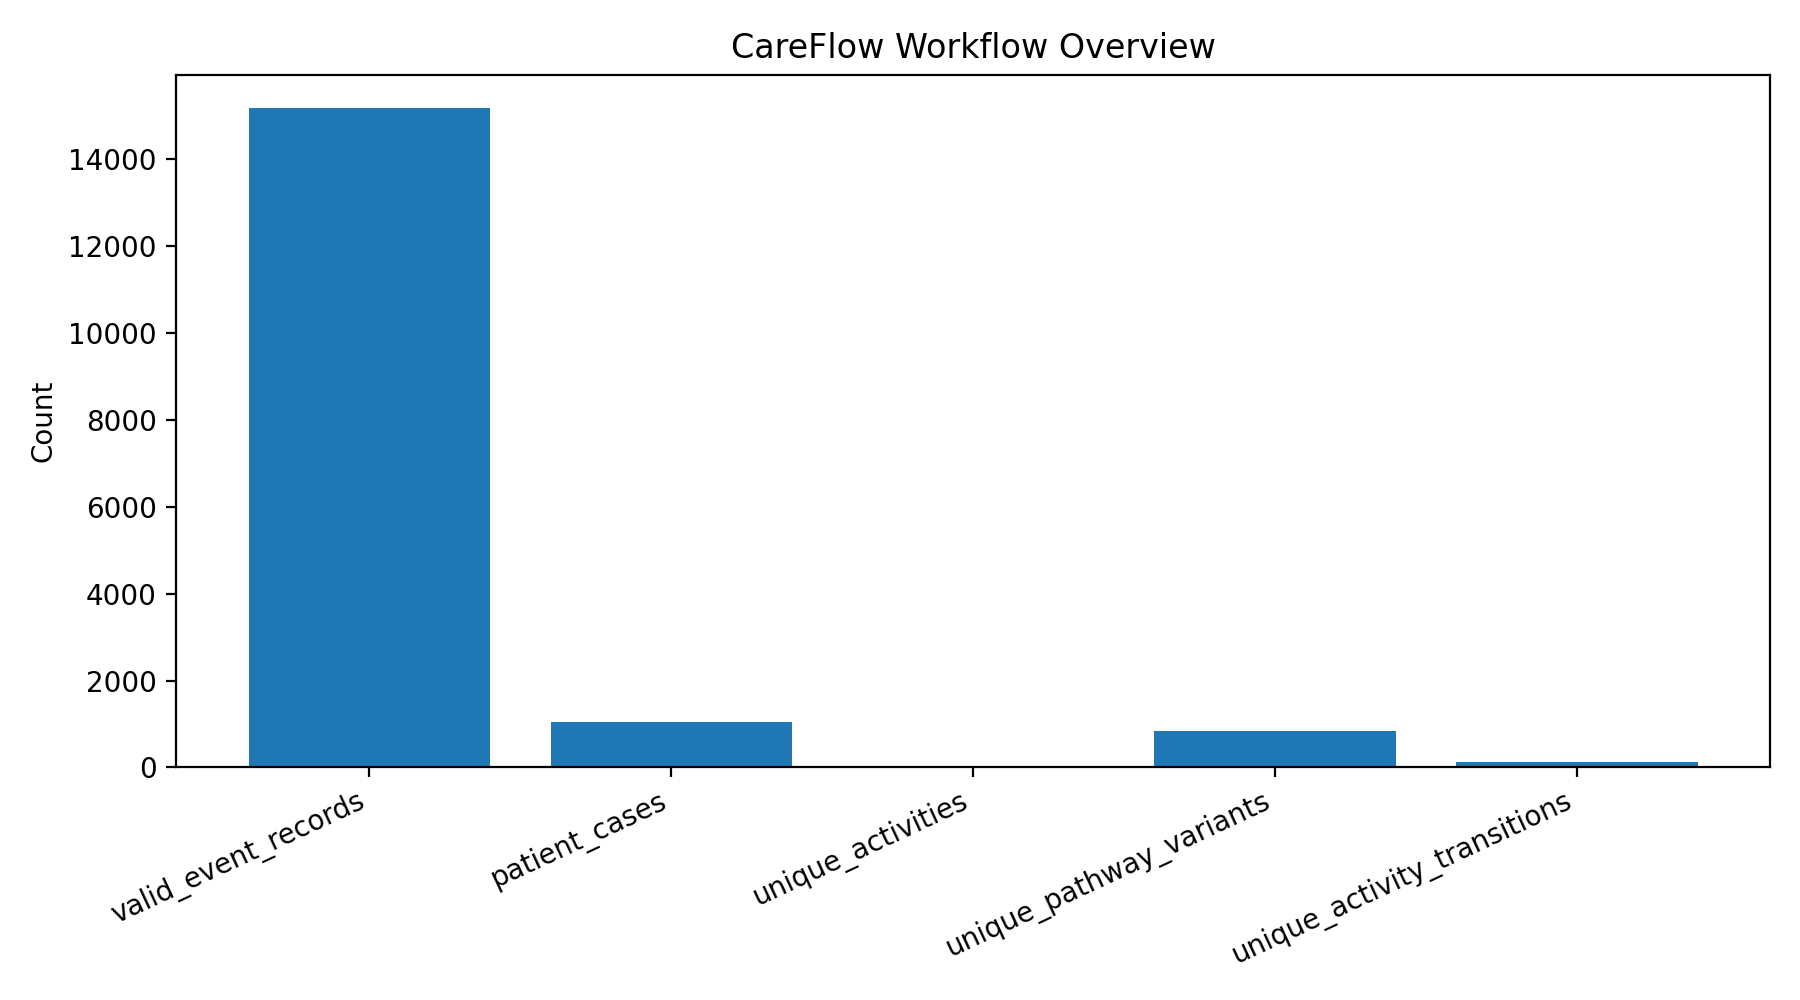
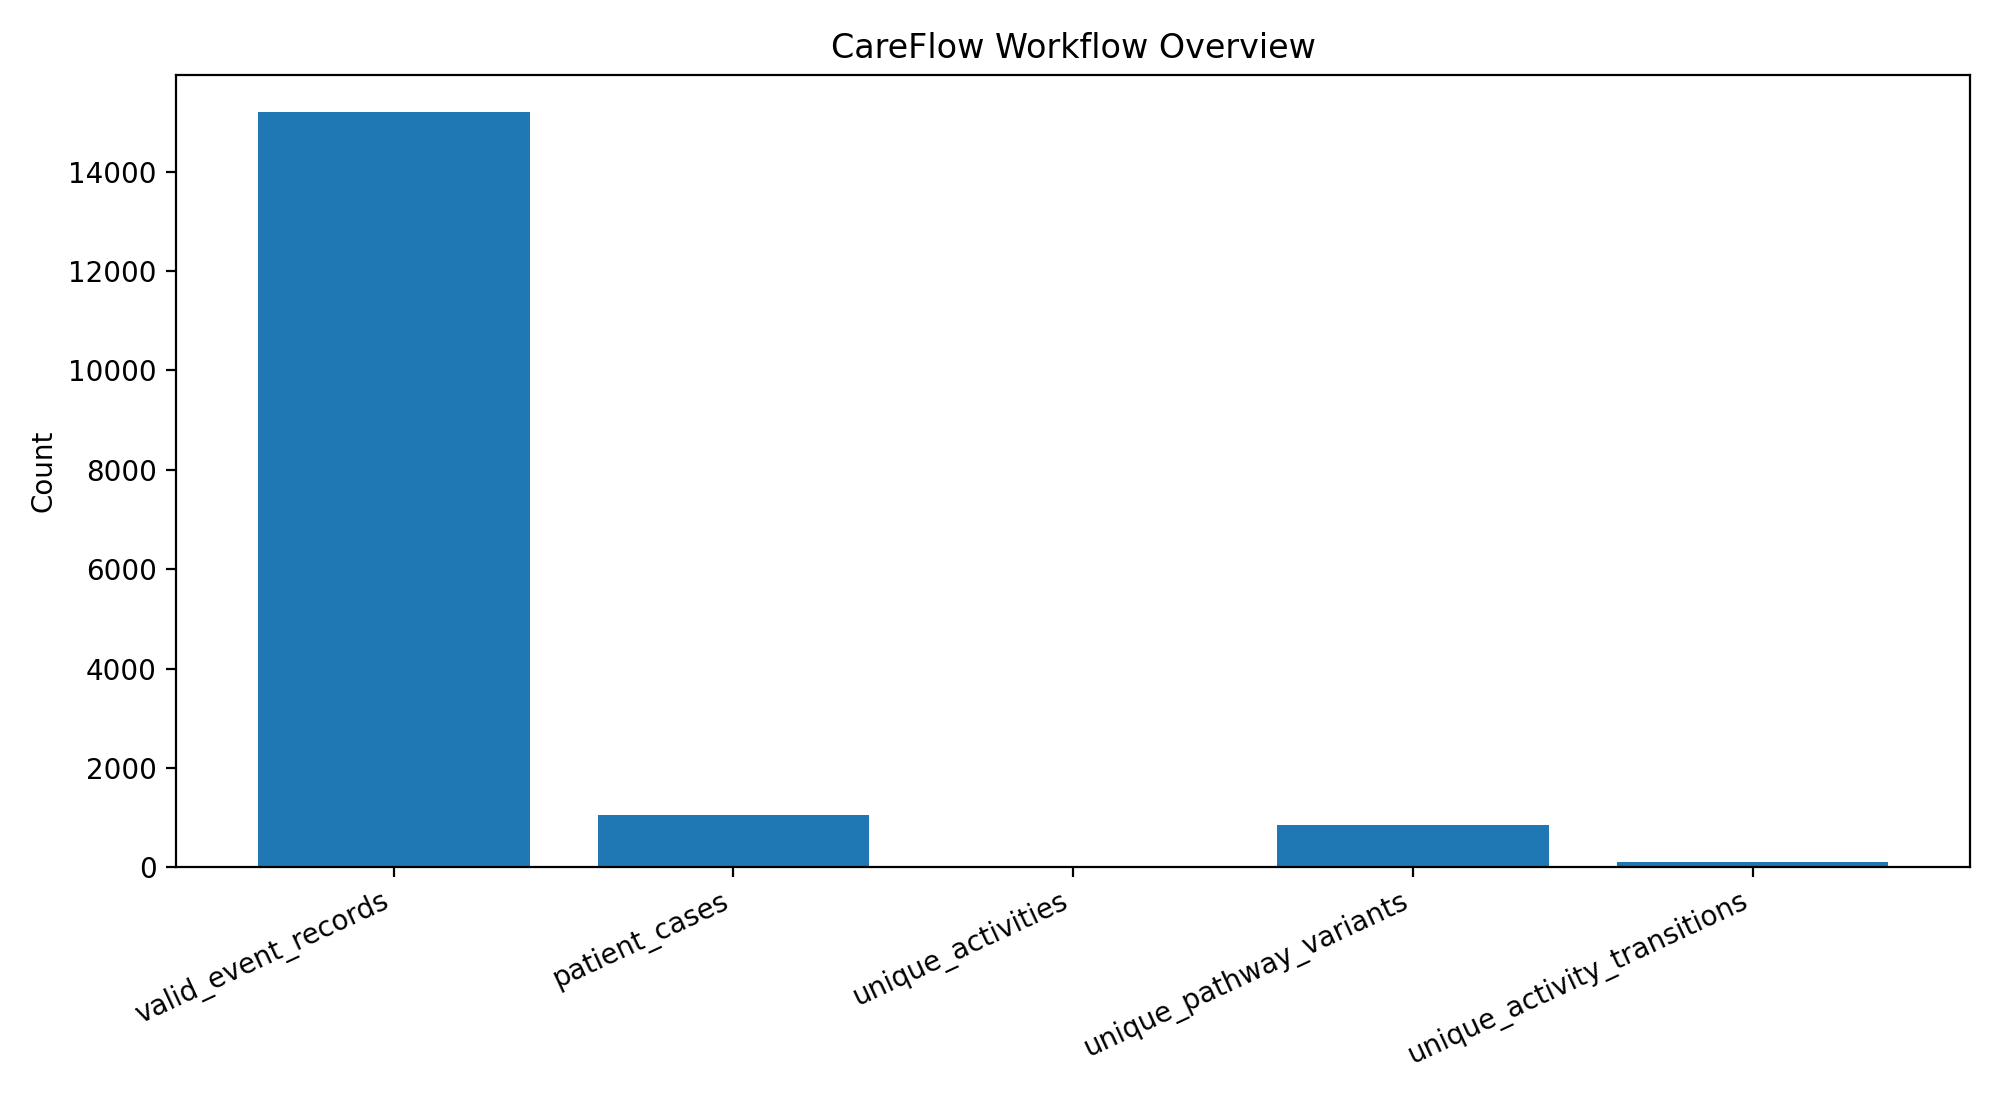
Upgrade dashboard with workflow KPI cards

diff --git a/src/create_dashboard.py b/src/create_dashboard.py
@@ -9,18 +9,176 @@ CHART_DIR = OUTPUT_DIR / "charts"
 CHART_DIR.mkdir(parents=True, exist_ok=True)
 
 
-def main():
-    overview = pd.read_csv(OUTPUT_DIR / "workflow_overview.csv")
-    pathways = pd.read_csv(OUTPUT_DIR / "pathway_variants.csv")
-    transitions = pd.read_csv(
-        OUTPUT_DIR / "activity_transition_summary.csv"
+def load_csv(filename):
+    """Load a CSV report and provide a helpful error if it is missing."""
+    path = OUTPUT_DIR / filename
+
+    if not path.exists():
+        raise FileNotFoundError(
+            f"Required report not found: {path}\n"
+            "Run src.run_workflow_report first."
+        )
+
+    return pd.read_csv(path)
+
+
+def find_metric(overview, keywords, default=0):
+    """Find a metric in the workflow overview using its name."""
+    metric_names = overview["metric"].astype(str).str.lower()
+
+    for keyword in keywords:
+        matches = overview.loc[
+            metric_names.str.contains(keyword, regex=False),
+            "value",
+        ]
+
+        if not matches.empty:
+            try:
+                return int(float(matches.iloc[0]))
+            except (ValueError, TypeError):
+                continue
+
+    return default
+
+
+def save_kpi_dashboard(
+    total_cases,
+    total_events,
+    pathway_variants,
+    activity_transitions,
+    long_intervals,
+):
+    """Create a dashboard-style image with workflow KPI cards."""
+    kpis = [
+        ("PATIENT CASES", f"{total_cases:,}"),
+        ("EVENT RECORDS", f"{total_events:,}"),
+        ("PATHWAY VARIANTS", f"{pathway_variants:,}"),
+        ("ACTIVITY TRANSITIONS", f"{activity_transitions:,}"),
+        ("LONG INTERVALS (24H+)", f"{long_intervals:,}"),
+    ]
+
+    fig, ax = plt.subplots(figsize=(14, 5.5))
+    ax.set_xlim(0, 10)
+    ax.set_ylim(0, 4)
+    ax.axis("off")
+
+    fig.suptitle(
+        "CareFlow Intelligence",
+        fontsize=23,
+        fontweight="bold",
+        y=0.96,
     )
 
-    # 1. Workflow overview metrics
-    plt.figure(figsize=(9, 5))
+    ax.text(
+        5,
+        3.35,
+        "Healthcare Workflow Performance Overview",
+        ha="center",
+        fontsize=13,
+    )
+
+    positions = [
+        (0.25, 1.65, 1.8, 1.25),
+        (2.2, 1.65, 1.8, 1.25),
+        (4.15, 1.65, 1.8, 1.25),
+        (6.1, 1.65, 1.8, 1.25),
+        (8.05, 1.65, 1.7, 1.25),
+    ]
+
+    for (label, value), (x, y, width, height) in zip(
+        kpis, positions
+    ):
+        ax.add_patch(
+            plt.Rectangle(
+                (x, y),
+                width,
+                height,
+                linewidth=1.2,
+                edgecolor="gray",
+                facecolor="white",
+            )
+        )
+
+        ax.text(
+            x + width / 2,
+            y + height * 0.68,
+            value,
+            ha="center",
+            va="center",
+            fontsize=19,
+            fontweight="bold",
+        )
+
+        ax.text(
+            x + width / 2,
+            y + height * 0.28,
+            label,
+            ha="center",
+            va="center",
+            fontsize=8,
+            wrap=True,
+        )
+
+    ax.text(
+        5,
+        0.85,
+        "Long intervals are investigation signals, not proof of bottlenecks.",
+        ha="center",
+        fontsize=10,
+        style="italic",
+    )
+
+    fig.tight_layout(rect=[0, 0, 1, 0.92])
+    fig.savefig(
+        CHART_DIR / "dashboard_kpis.png",
+        dpi=200,
+        bbox_inches="tight",
+    )
+    plt.close(fig)
+
+
+def main():
+    overview = load_csv("workflow_overview.csv")
+    pathways = load_csv("pathway_variants.csv")
+    transitions = load_csv("activity_transition_summary.csv")
+
+    # Read the long-interval report if it exists.
+    long_interval_file = OUTPUT_DIR / "long_interval_investigation.csv"
+
+    if long_interval_file.exists():
+        long_intervals_df = pd.read_csv(long_interval_file)
+        long_interval_count = len(long_intervals_df)
+    else:
+        long_interval_count = 0
+        print(
+            "Note: Long-interval report not found. "
+            "Run the workflow report to generate it."
+        )
+
+    # Derive metrics from the generated reports.
+    total_cases = int(pathways["case_count"].sum())
+    pathway_variant_count = len(pathways)
+    activity_transition_count = len(transitions)
+
+    total_events = find_metric(
+        overview,
+        ["event records", "total events", "event count", "records"],
+    )
+
+    # 1. KPI dashboard
+    save_kpi_dashboard(
+        total_cases=total_cases,
+        total_events=total_events,
+        pathway_variants=pathway_variant_count,
+        activity_transitions=activity_transition_count,
+        long_intervals=long_interval_count,
+    )
+
+    # 2. Workflow overview metrics
+    plt.figure(figsize=(10, 5.5))
     plt.bar(
-        overview["metric"],
-        overview["value"],
+        overview["metric"].astype(str),
+        pd.to_numeric(overview["value"], errors="coerce"),
     )
     plt.title("CareFlow Workflow Overview")
     plt.ylabel("Count")
@@ -29,14 +187,14 @@ def main():
     plt.savefig(CHART_DIR / "workflow_overview.png", dpi=200)
     plt.close()
 
-    # 2. Five most common patient pathways
-    top_pathways = pathways.nlargest(5, "case_count").sort_values(
-        "case_count"
-    )
+    # 3. Five most common patient pathways
+    top_pathways = pathways.nlargest(
+        5, "case_count"
+    ).sort_values("case_count")
 
     plt.figure(figsize=(12, 6))
     plt.barh(
-        top_pathways["variant_id"],
+        top_pathways["variant_id"].astype(str),
         top_pathways["case_count"],
     )
     plt.title("Top 5 Patient Pathway Variants")
@@ -45,7 +203,7 @@ def main():
     plt.savefig(CHART_DIR / "top_pathways.png", dpi=200)
     plt.close()
 
-    # 3. Ten most frequent activity transitions
+    # 4. Ten most frequent activity transitions
     top_transitions = transitions.nlargest(
         10, "transition_count"
     ).copy()
@@ -56,7 +214,9 @@ def main():
         + top_transitions["to_activity"].astype(str)
     )
 
-    top_transitions = top_transitions.sort_values("transition_count")
+    top_transitions = top_transitions.sort_values(
+        "transition_count"
+    )
 
     plt.figure(figsize=(12, 7))
     plt.barh(
@@ -69,9 +229,16 @@ def main():
     plt.savefig(CHART_DIR / "top_transitions.png", dpi=200)
     plt.close()
 
-    print(f"Dashboard charts saved to: {CHART_DIR}")
+    print("\nCareFlow Intelligence dashboard generated!")
+    print(f"Patient cases: {total_cases:,}")
+    print(f"Event records: {total_events:,}")
+    print(f"Pathway variants: {pathway_variant_count:,}")
+    print(f"Activity transitions: {activity_transition_count:,}")
+    print(f"Long intervals for investigation: {long_interval_count:,}")
+    print(f"\nCharts saved to: {CHART_DIR}")
+
     for chart in sorted(CHART_DIR.glob("*.png")):
-        print(chart.name)
+        print(f" - {chart.name}")
 
 
 if __name__ == "__main__":
